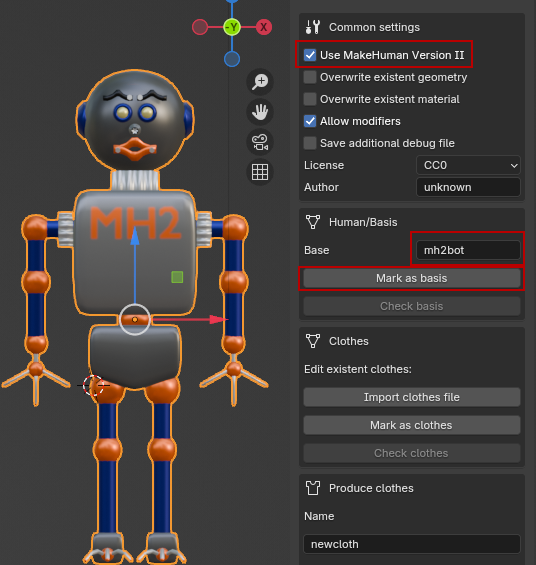
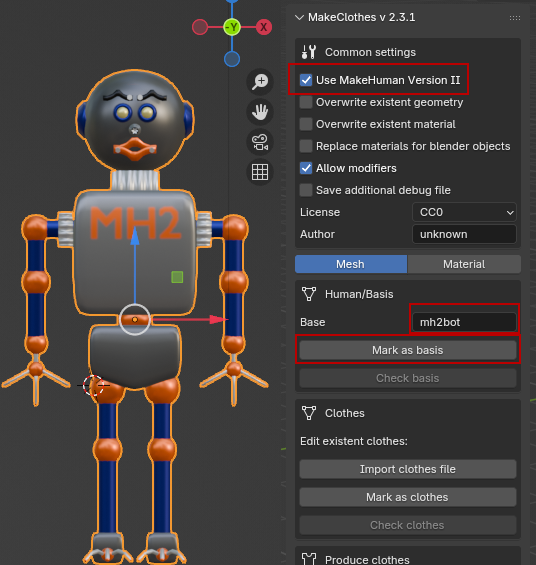
changes for MakeClothes Version II including Material Editor

Changed region(s): [[0.5373, 0.0, 0.9851, 1.0]]

diff --git a/content/Assets/CreatingAssets/MakeClothes/makeclothes_materials.md b/content/Assets/CreatingAssets/MakeClothes/makeclothes_materials.md
@@ -1,0 +1,61 @@
+---
+title: "MakeClothes Materials"
+draft: false
+---
+
+
+
+
+## Material editor in MakeClothes (MakeHuman Version II only)
+
+If we want to create a new material for MakeHuman II, we can do that by selecting the textures we need and setting shader and environment parameter.
+Be aware that the option "Replace materials for blender objects" is selected, if a material is already existent (this option is made to avoid accidentally deleting a material, which was already made).
+
+Given that we want to create a material for our mesh, which contains:
+
+* a diffuse texture
+* a metal-roughness texture
+* a normal map
+* an ambient occlusion map
+
+we will get the following template:
+
+![Mc2_material2.png](Mc2_materials1.png)
+
+Since cycles cannot deal with glTF AO map, 2 output nodes are supplied. For cycles it is simply not used (but do not delete the nodes, they are needed for the process).
+Using the Eevee nodes, cycles will not handle shadows of partly transparent textures correctly.
+
+We now need to fill the textures to get the effects.
+
+![Mc2_material2.png](Mc2_materials2.png)
+
+
+Be aware that also colors only can be used. So e.g. the (diffuse) color could be simple blue, but normalmap and metallic-roughness are used.
+
+The material editor is limited to the material keywords which are provided by MakeHuman II. With shader type PBR all parameters can be used in Makehuman II (except litsphere).
+
+| key                      | Source | Description |
+| :----------------------- | :-------: | :---------- |
+| tag                      | Input box of material menu | tags added to the material, used for filtering |
+| name                     | Input box of material menu | name added to the material |
+| description              | Input box of material menu | description added to the material |
+| license                  | Input box of mesh menu | licence is copied from mesh licence |
+| author                   | Input box of mesh menu | author is copied from mesh licence if not "unknown" |
+| ambientColor             | Color entry of AO Separator | grey-scale, used with no ambient occlusion map, otherwise white |
+| diffuseColor             | Base Color entry of principled shader | base color, used when no diffuse texture is given |
+| emissiveColor            | Emission Color entry of principled shader | emission color, used when no emission texture is given and emission color is not black |
+| aomapTexture             | file name from aomapTexture node | ambient occlusion texture, a method to use ambient light, this is usually a grey map. So only one channel is used. |
+| diffuseTexture           | file name from diffuseTexture node | diffuse texture for the used colors. |
+| emissiveTexture          | file name from emissiveTexture node | texture for illumination. |
+| metallicRoughnessTexture | file name from metallicRoughnessTexture node | a standard method using green channel for roughness and blue channel for metallic entry. |
+| normalmapTexture         | file name from normalmapTexture node | normal map to simulate higher detail by colors. |
+| aomapIntensity           | Fac of AO Mixer multiplied by 2 | intensity of the ambient occlusion map, without map ambient occkusion from a grey-scale, 1.0 is normal, up to 2.0 |
+| emissiveFactor           | Color Strenght fof  principled shader, values 0-255 | intensity of light. 0-255 will be recalculated to 0-1. Blender may use bloom effects to visualize bright light |
+| metallicFactor           | Metallic entry of principled shader | metallic factor of a material, in case of a given texture it is 1.0 which is the value how much the metallic texture is used |
+| normalmapIntensity       | Strength entry of Normalmap node | intensity of normals |
+| roughnessFactor          | Roughness entry of principled shader | roughness factor of a material, in case of a texture it is 1.0 which is the value how much the roughness texture is used |
+| shader                   | Selection box of material menu | shader type (pbr, toon, phong, litsphere) |
+| shaderParam litsphereTexture | Selection box of material menu |  a default litsphere map for litsphere shader, no effect for other shaders |
+| alphaToCoverage          | Check box of material menu | parameter to be used when having multiple transparent layers (classical used for hair) |
+| transparent              | Check box of material menu | shader should use alpha channel, because material is transparent |
+| backfaceCull             | Check box of material menu | material used for front and backside (false: both sides are visible) |

diff --git a/content/Assets/CreatingAssets/MakeClothes/introduction.md b/content/Assets/CreatingAssets/MakeClothes/introduction.md
@@ -10,7 +10,7 @@ weight: 5
 
 
 
-MakeClothes is used to create clothes for MakeHuman characters. It could be installed as a single plugin, but at least MakeSkin should be used, if the creation of material is also part of your work. When you work with hm08 meshes, you can also use MPFB2 to create clothes. In case you work with MakeHuman II and use a different mesh, MakeClothes is needed.
+MakeClothes is used to create clothes for MakeHuman characters. When you work with hm08 meshes, you can also use MPFB2 to create clothes. In case you work with MakeHuman II and use a different mesh, MakeClothes is needed. A material editor for glTF-like materials is included, it is available when MakeClothes is switched to MakeHuman II.
 
 The term "clothes" is not really correct, the program creates any kind of mesh which can be used for a character generated by MakeHuman. This also includes hair and different tongue or a new topology for the skin. To use MakeClothes in Blender knowledge of Blender itself is needed.
 
@@ -46,7 +46,7 @@ Makeclothes has certain limits according to the internal structure of MakeHuman 
 
 * each vertex of an item of clothing needs to be in one (and only one) vertex group. A group of the same name must be created on the base character
 
-* it is possible to create more than one item of clothing with one base character
+* it is possible to create more than one item of clothing with one base character in one blend file.
 
 * only one base character (human) is allowed when clothes are created. So only one object is "marked as human". However, if you need more than one base mesh, all others can be marked as clothes
 
@@ -165,9 +165,9 @@ Clothes need a bit more testing.
 
 ## Common settings
 
-The common settings will provide the **license** and the name of the **author**, which will be used for all the clothes generated with this file.
+The common settings will provide the **license** and the name of the **author**, which will be used for all the clothes and materials generated with this file.
 
-* **Use MakeHuman Version II** is switched off. If you switch it on, the data folder should change and one can enter different base meshes. The test for triangles and quads is no longer executed.
+* **Use MakeHuman Version II** is switched off. If you switch it on, the data folder should change and one can enter different base meshes. The test for triangles and quads is no longer executed and a material editor is available.
 
 * **Overwrite existing geometry** is switched off. The name of the item of clothing is used as a filename. If it is necessary to overwrite existing geomerty files, the box must be marked. Since Blender can overwrite existent MakeHuman clothes, this option may avoid accidentally overwriting files.
 
@@ -209,9 +209,6 @@ The main features of creating clothes are:
 
 * **delete-group**: it is a good method to delete vertices on the body if clothes are not transparent. This avoids bleeding through, that is, that vertices that should be "inside" suddenly appear outside of the clothes. See: [delete-group]({{< relref "makeclothes_deletegroups" >}}). All vertices not to be displayed should be selected on the body (not helper) and assigned to a vertex on the human. The name of this group must be inserted in the box. If more than one piece of cloth is created, they all can have a different delete-group on the same human.
 
-
-* **use MakeSkin**: without MakeSkin a simple material is saved for the piece of cloth (white base color). Otherwise the material file of the plugin [[Documentation:MaterialsMakeSkin|MakeSkin]] is used. See "Materials" below.
-
 > **_Data path MakeHuman I:_**  MakeHuman I usually uses the user Documents folder, inside this folder there is a "makehuman" folder. There is a second method, where a file with one line containing the path is added. This file is called makehuman.conf and is found either in .config (Linux) or in the %LOCALAPPDATA% environment (Windows).
 
 > **_Data path MakeHuman II:_**  MakeHuman II works with a configuration file (JSON). The name is makehuman2.conf. It is either in the .config/makehuman2 folder (Linux) or in %LOCALAPPDATA%/makehuman2 folder (Windows). In case a sandboxed python3 interpreter is used for MakeHuman II, Blender checks for packages named "PythonSoftwareFoundation.Python" and will also find the sandboxed folder, but only if there is only one version of python installed.
@@ -226,7 +223,7 @@ Most of the clothes will need a texture. Before the texture can be used the piec
 
 Unwrap the clothes in any case. The output of this process is a UV-Map, which will be used to determine the coordinates of each vertex on the texture.
 
-If the simple standard material should not be used for export, a material can be attached with [[Documentation:MaterialsMakeSkin|MakeSkin]]
+If the simple standard material should not be used for export, a material can be created with MakeClothes as well in the [Material Editor]({{< relref "makeclothes_materials" >}}) as well.
 
 [Methods to texture clothes you will find here]({{< relref "modeling_clothes" >}}).
 
@@ -251,8 +248,7 @@ It is possible to load an existing mhclo-file from the data folder of MakeHuman.
 
 When clothes are imported, most of fields are filled in by the process and the delete-group is marked on the human (in case a human is available).
 
-The material is also loaded, when MakeSkin is available. The illustration shows the result of the import of the "lace_up_blouse". A material called "lace_up_blouse" was created in blender. All available information is imported and displayed. This includes the special parameters only used in MakeHuman (Backface culling, Transparent, LitSphere etc.). So also the material setup could be used for a new item of clothing.
-
+The material is also loaded, The illustration shows the result of the import of the "ww-corsage" on a female base-mesh. A material called "ww-corsage" was created in blender. All available information is imported and displayed. This includes the special parameters only used in MakeHuman (Shader, Backface culling, Transparent, AlphaToCoverage). So also the material setup could be used for a new item of clothing.
 
 
 ![Mc2_importclothes.png](Mc2_importclothes.png)

diff --git a/content/Assets/CreatingAssets/MakeClothes/_index.md b/content/Assets/CreatingAssets/MakeClothes/_index.md
@@ -5,8 +5,16 @@ weight: 10
 alwaysopen: false
 ---
 
-This is the main documentation for MakeClothes. If nothing else is specifically mentioned, the content here concern MakeClothes v2.
-
-## Getting started
+This is the main documentation for MakeClothes Version 2.
 
 * [Introduction to MakeClothes]({{< relref "introduction" >}})
+
+* [Materials for MakeHuman Version II]({{< relref "makeclothes_materials" >}})
+
+* [What are Vertex-Groups]({{< relref "makeclothes_vertexgroups" >}})
+
+* [What are Delete-Groups]({{< relref "makeclothes_deletegroups" >}})
+
+* [How to Model Heels]({{< relref "createheels" >}})
+
+* [Tips for Modeling Clothes]({{< relref "modeling_clothes" >}})